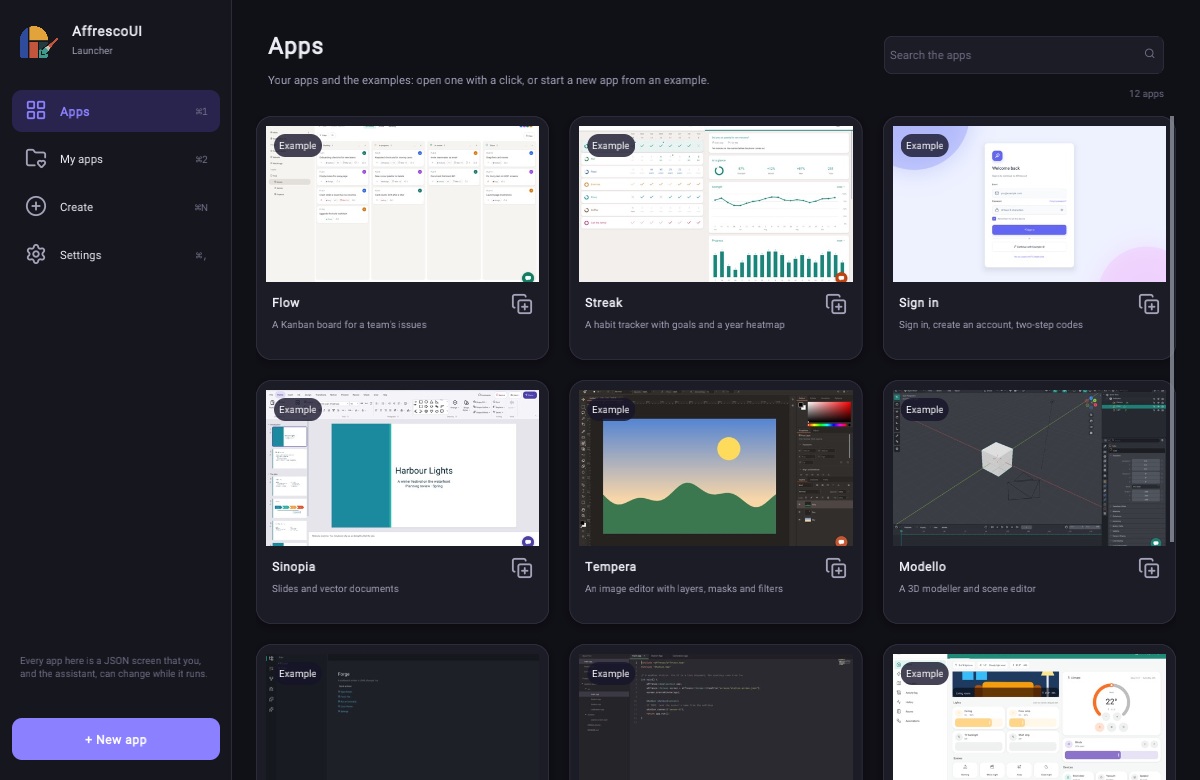
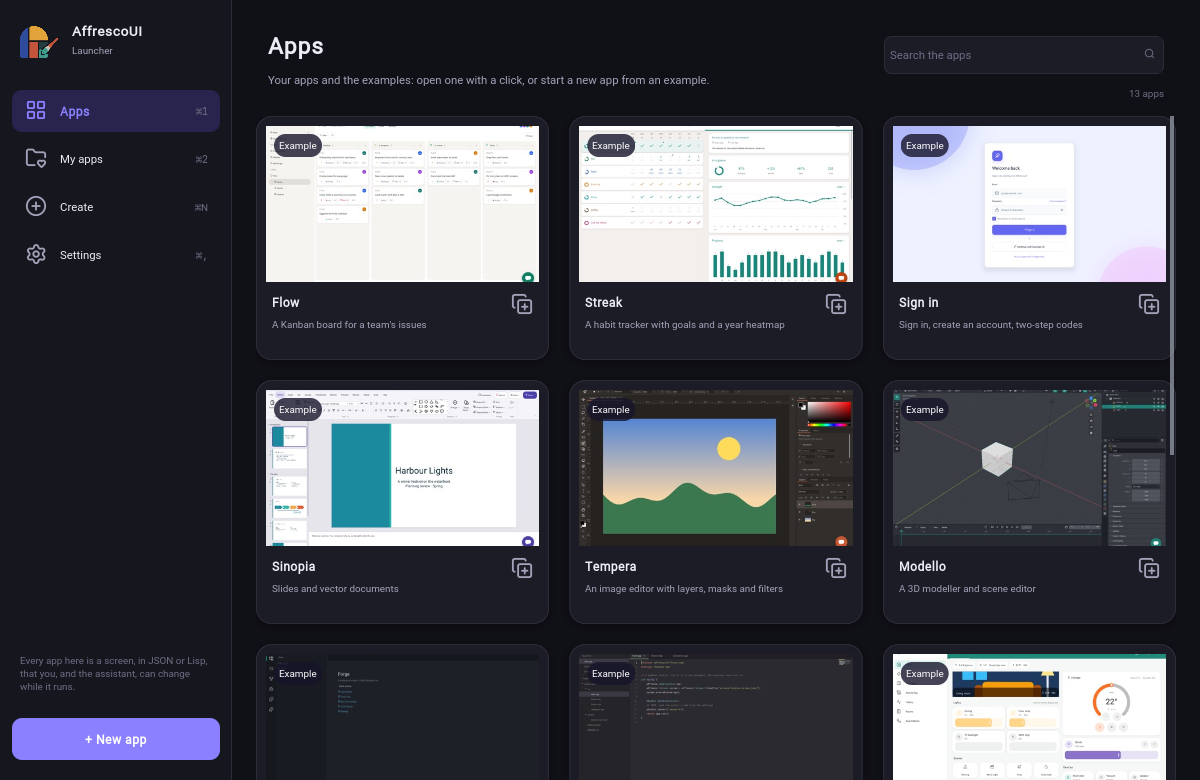
The README describes the library as it is after plans 01 to 09
The front page still described the project before the Clojure dialect, point and ask, the editors' live
connection, commands as tools, undo that keeps later changes, sharing and installing, dependency tracking and
sharp text. Each now has a short place where a reader looks for it, linking to the docs that hold the details.

Out-of-date statements corrected: thirteen applications, not twelve; Flow is no longer the host's default (the
Launcher is); the token numbers are the current record; CI tests on macOS too; files are joined with ns and
:require, not include; the module list gains data and audio, and the tree gains catalogue/ and editors/; the CLI
list names the commands it has now.

The thirteen pictures the README shows are drawn again with tools/media/capture.py: every app's text is sharper
since light hinting, and the Launcher counts 13 apps.

diff --git a/README.md b/README.md
@@ -38,12 +38,12 @@ app made from a name and a description, a small change to a home app, and the La
 > cmake -S . -B build && cmake --build build && ./build/affrescoui_launcher
 > ```
 
-AffrescoUI is a native UI engine whose applications are **defined in Lisp**. [AffrescoUI Lisp](LISP.md) is the
-standard: an application's window, views, state, behaviour, commands, keys, settings and text are all named Lisp
-definitions, which the engine builds into one document, draws in C++ and OpenGL, and keeps running. **JSON is supported
-too:** the same document can be written directly in JSON, and every example ships both. People and AI agents change an
-application while it runs: each change is checked against the app's permissions, previewed if it needs approval, and
-applied in place in milliseconds, with no rebuild, no restart and nothing lost.
+AffrescoUI is a native UI engine whose applications are **defined in Lisp**. [AffrescoUI Lisp](LISP.md), a sandboxed
+dialect of Clojure, is the standard: an application's window, views, state, behaviour, commands, keys, settings and text
+are all named Lisp definitions, which the engine builds into one document, draws in C++ and OpenGL, and keeps running.
+**JSON is supported too:** the same document can be written directly in JSON, and every example ships both. People and
+AI agents change an application while it runs: each change is checked against the app's permissions, previewed if it
+needs approval, and applied in place in milliseconds, with no rebuild, no restart and nothing lost.
 
 ## The vision
 
@@ -55,8 +55,8 @@ AffrescoUI applications keep evolving while they are used, shaped by the people 
 - **Complex applications, built by anyone.** No programming needed: describe what you want, and an AI agent builds it
   with you, step by step, from a simple board to a full workbench.
 - **The people who use an app can change it.** Ask the app itself, in plain words: *"add a Blocked column"*, *"dim
-  the lights at sunset"*, *"warn me when a streak breaks"*. You see the change live, then keep it or undo it. Nothing
-  changes without your approval.
+  the lights at sunset"*, *"warn me when a streak breaks"*, or point at the part to change and ask. You see the change
+  live, then keep it or undo it, even after later changes. Nothing changes without your approval.
 - **Prototyping without stopping.** Every idea is tried in the running application: no rebuilding, no restarting, no
   reloading, and your work stays where it was. When the prototype is right, it is already the app.
 
@@ -65,7 +65,8 @@ AffrescoUI applications keep evolving while they are used, shaped by the people 
 An application starts from a document, then **grows by being talked to**: *"add a filter to this list"*, *"make the
 sidebar collapsible"*, *"show the total in red when it's negative"*. Each request becomes a reviewed revision. A run
 of revisions becomes a **change set**, a portable file that works like a **plugin**, and whole features move between
-applications: the planetarium below reuses the presentation editor's slide sorter.
+applications: the planetarium below reuses the presentation editor's slide sorter. A person's own version of an app
+is shared as one file too, and every install is a proposal they review before it lands.
 
 ```mermaid
 flowchart LR
@@ -89,19 +90,21 @@ natively, and shaped by the people who use them while they run.
 
 ## Applications
 
-Twelve applications, from everyday apps to professional tools, all in the same format. They are examples
+Thirteen applications, from everyday apps to professional tools, all in the same format. They are examples
 ([`examples/`](examples/README.md)), not part of the library, and each carries the AI **assistant** in its bottom right
-corner: ask for a change in plain words, then review the proposal it becomes. Each is a Lisp program
-(`examples/<app>/lisp/`), small named views and functions with their text in English, Spanish and French, and keeps
-the same app as a JSON document beside it (`examples/<app>/json/`): choose which opens in the Launcher's Settings.
-Calamaio is Lisp only.
+corner: ask for a change in plain words, or **Point** at the part to change first, then review the proposal it
+becomes. Each is a Lisp program (`examples/<app>/lisp/`) in the dialect's idiomatic style, small named views and
+functions with their text in English, Spanish and French, and keeps the same app as a JSON document beside it
+(`examples/<app>/json/`): choose which opens in the Launcher's Settings. Calamaio, the text editor reprogrammed
+[from inside](#changed-from-inside-while-it-runs), is Lisp only.
 
 <div align="center">
 
 <img src=".github/media/launcher.png" width="860" alt="The AffrescoUI Launcher: a sidebar with Apps, My apps, Create and Settings, and a grid of application cards with their pictures, rendered natively by AffrescoUI from one live document">
 
 <sub>The AffrescoUI Launcher, itself one live document: every application one click away, your own apps, a new app
-made blank, from an example or from a description, and the AI provider every app's assistant uses.</sub>
+made blank, from an example or from a description, a catalogue of apps and features to install after review, and the
+AI provider every app's assistant uses.</sub>
 
 </div>
 
@@ -134,7 +137,7 @@ made blank, from an example or from a description, and the AI provider every app
 <td valign="top"><img src=".github/media/arcadia.png" alt="Arcadia, a game launcher with a library, a store and game pages"><br/><b>Arcadia</b> · a game launcher<br/><sub>A library and a store with carousels, game pages, downloads, a wishlist and a cart. Built by an outsider from the public docs. <code>examples/arcadia/lisp/index.screen.lisp</code></sub></td>
 </tr>
 <tr>
-<td valign="top"><img src=".github/media/kanban.png" alt="Flow, a Kanban board with a sidebar and four columns of issues"><br/><b>Flow</b> · a Kanban board<br/><sub>Boards with swimlanes, a table and a timeline of every card, a card drawer, a burndown, drag and drop with a keyboard alternative, undo and a command palette. The host's default. <code>examples/flow/lisp/index.screen.lisp</code></sub></td>
+<td valign="top"><img src=".github/media/kanban.png" alt="Flow, a Kanban board with a sidebar and four columns of issues"><br/><b>Flow</b> · a Kanban board<br/><sub>Boards with swimlanes, a table and a timeline of every card, a card drawer, a burndown, drag and drop with a keyboard alternative, undo and a command palette. <code>examples/flow/lisp/index.screen.lisp</code></sub></td>
 <td valign="top"><img src=".github/media/sign-in.png" alt="Sign in, a form with validated fields and a password strength meter"><br/><b>Sign in</b> · accounts<br/><sub>Sign in and sign up, two-step codes, a password reset, a sample external provider, an account page and session expiry, all validated in the document. <code>examples/sign-in/lisp/index.screen.lisp</code></sub></td>
 </tr>
 </table>
@@ -208,13 +211,17 @@ flowchart TB
   needs code (wiring a button to a list, validating a form, filtering, drag and drop, shortcuts, navigation, calls to
   services) is declared, so an agent changes it as safely as a colour.
 - **Compact for agents.** Edits address nodes by id (`{"set": {"#title/text": "Q4"}}`, stored as JSON Patch) and
-  re-reads return only what changed: a typical edit is 24 tokens, a re-read after one commit 29
-  ([BENCHMARKS.md](BENCHMARKS.md)).
+  re-reads return only what changed: a typical edit is 28 tokens, a re-read after one commit 27
+  ([BENCHMARKS.md](BENCHMARKS.md)). When the person points at a part, the agent reads only the definition that built
+  it.
+- **Apps that agents can use.** An app's commands are tools: an agent lists them, runs one under its own name and the
+  app's `run` rules, never the person's, and can undo its runs ([VERSION_CONTROL.md](VERSION_CONTROL.md#running-commands)).
 - **Swappable layers.** Modules talk only through the interfaces in `modules/core`, and `affresco::Screen` plugs them
   together. No public header exposes OpenGL or GLFW, and each module links on its own (`affrescoui::render`,
   `affrescoui::vcs`, ...) or all together (`affrescoui::affrescoui`).
 - **Features travel.** A part declares the contribution points and contracts it needs, so one application installs
-  another's feature, checked before it lands.
+  another's feature, checked before it lands. A feature can hold Lisp code, which runs with its author's authority,
+  and a person's version of an app is shared as one file ([VERSION_CONTROL.md](VERSION_CONTROL.md#sharing-a-version-packages)).
 
 ```
 modules/core/        the interfaces between modules: Executor, Channel, VersionControl, Services, Network
@@ -222,7 +229,9 @@ modules/render/      windows, panels, layout, shaped text, input, accessibility;
 modules/format/      the screen format: rules, checker, {{expressions}}, the runtime that reconciles in place
 modules/themes/      the kits' components and the themes' design tokens, as JSON built into the library
 modules/notation/    documents read and written in JSON or in the Lisp notation
-modules/lisp/        the Lisp language: reader, interpreter, programs built purely into a document
+modules/lisp/        the Lisp language, a Clojure dialect: reader, interpreter, programs built purely into a document
+modules/data/        an app's records in SQLite, kept apart from its document: models and migrations
+modules/audio/       sound: voices of files, streams and generators, mixed to the system's output
 modules/vcs/         version control: commits, proposals, permissions, history
 modules/channel/     peers and the live protocol over local sockets and processes
 modules/net/         HTTP(S), server-sent events, WebSocket, remote peers
@@ -238,6 +247,8 @@ mcp/                 the MCP server for AI agents
 apps/server/         the document server: shared, persistent documents over WebSocket
 apps/host/           the stock host, affrescoui_launcher: it opens an app's folder and asks for what the app uses
 examples/            the apps (each with a lisp/ and a json/ folder), the Launcher among them, the assistant add-on
+catalogue/           the apps' versions and features the Launcher's Catalogue lists and installs
+editors/             a VS Code extension, and a clj-kondo configuration for the Lisp programs
 web/                 the WebAssembly build
 ```
 
@@ -245,10 +256,15 @@ The layers, the path of a revision and of an event, and the security boundary: [
 
 ## Written in Lisp
 
-An AffrescoUI app is a program in **AffrescoUI Lisp**, a programming language with its own runtime, built into the
-library ([LISP.md](LISP.md) has every definition and rule in tables; [`modules/lisp`](modules/lisp/README.md),
-[RFC 0005](rfcs/0005-lisp-language.md)). The program is a folder of small, named definitions. Building it gives the
-document the engine draws, and its functions run whenever a button is pressed, a key is typed or a bound value changes.
+An AffrescoUI app is a program in **AffrescoUI Lisp**, a sandboxed dialect of Clojure with its own runtime, built into
+the library ([LISP.md](LISP.md) has every definition and rule in tables; [`modules/lisp`](modules/lisp/README.md), [RFC
+0005](rfcs/0005-lisp-language.md), [RFC 0006](rfcs/0006-clojure-dialect.md)). Its forms, functions and reader forms are
+Clojure's; it is measured against Clojure's cross-dialect test suite ([CONFORMANCE.md](modules/lisp/CONFORMANCE.md)),
+and every difference is written down with what to write instead
+([differences.md](modules/lisp/reference/differences.md)). Every example is written in its idiomatic style
+([style.md](modules/lisp/reference/style.md)). The program is a folder of small, named definitions. Building it gives
+the document the engine draws, and its functions run whenever a button is pressed, a key is typed or a bound value
+changes.
 
 | You define | In AffrescoUI Lisp |
 |---|---|
@@ -260,7 +276,7 @@ document the engine draws, and its functions run whenever a button is pressed, a
 | Shortcuts and settings | `defkey`, `defcustom` |
 | Extension points | `defhook`, `add-hook`, `advice` |
 | Its text, in every language | `(t "key")` and `locales/<language>.lisp` |
-| Its files | `(include "toolbar.lisp" ...)` |
+| Its files | `(ns board.index (:require "toolbar.lisp" ...))` |
 
 ### Lisp or JSON: the same app
 
@@ -308,6 +324,16 @@ buffer (`C-x b *scratch* RET`), type a new definition of a command and evaluate 
 The next `C-k` runs the new definition, and `C-x C-z` takes it back. `describe-key`, `apropos` and the `describe-*`
 functions inspect the running program.
 
+Your own editor can do the same in any Lisp app: start it with `--nrepl` and connect any nREPL client. The window asks
+once whether to let that editor evaluate as you; then every definition you evaluate lands as your own revision, in the
+file your buffer is ([LISP.md](LISP.md#connecting-an-editor)).
+
+```sh
+./build/affrescoui_launcher examples/flow/lisp/index.screen.lisp --nrepl
+```
+
+Only the definition that changed is rebuilt, and the running app is updated where that definition is read.
+
 ### Free, and still under version control
 
 - **Every change is a revision.** Each evaluation revises one definition: it is kept in history, shown in diffs and
@@ -327,7 +353,8 @@ functions inspect the running program.
 
 ### 🎨 Truly native
 A from-scratch **C++23** engine on **OpenGL 4.1 core or ES 3.0** (WebGL2 in the browser). No browser engine, no web
-view. Frames are batched, only what changed is redrawn, and an idle window sleeps.
+view. A change updates only what reads it, only what changed is redrawn, text is sharp at every display scale, and an
+idle window sleeps.
 
 </td>
 <td width="33%" valign="top">
@@ -340,8 +367,9 @@ A whole app in one readable document: layout, components, state, `{{expressions}
 <td width="33%" valign="top">
 
 ### 🛡 Version control built in
-Content-addressed commits, proposals as branches with **live preview**, revert and diff; `allow` / `ask` / `deny`
-rules and change budgets. An AI can change your app but **can never approve its own changes**.
+Content-addressed commits, proposals as branches with **live preview**, diff, and an **undo of any earlier change that
+keeps the later ones**; `allow` / `ask` / `deny` rules and change budgets. An AI can change your app but **can never
+approve its own changes**.
 
 </td>
 </tr>
@@ -349,8 +377,9 @@ rules and change budgets. An AI can change your app but **can never approve its 
 <td valign="top">
 
 ### 🤖 Agent-ready
-A **two-way MCP server**: requests from the app reach the agent, and its revisions and replies come
-back. Works with Claude Code out of the box.
+A **two-way MCP server**: requests from the app reach the agent, with what you pointed at, and its revisions and
+replies come back. Agents also run the app's commands as tools, under rules of their own. Works with Claude Code out of
+the box.
 
 </td>
 <td valign="top">
@@ -364,7 +393,7 @@ comes from the connection, never from what a peer claims.
 
 ### 🧩 Changes become plugins
 Any run of revisions exports as a **change set**, a small portable file that anyone with the same application can
-review and install.
+review and install. A whole version of an app shares as one file, installed only after review.
 
 </td>
 </tr>
@@ -429,8 +458,9 @@ flowchart LR
 ```
 
 1. **Anyone can propose a change.** The host (`affrescoui_launcher`) renders a screen and listens for peers on local
-   sockets. You ask through the app's assistant; the AI answers through the provider chosen in the
-   Launcher, or an agent connects through the MCP server, which works both ways; any script can connect too. Every change is a **revision** of compact edits.
+   sockets. You ask through the app's assistant, pointing at what to change if you like; the AI answers through the
+   provider chosen in the Launcher, or an agent connects through the MCP server, which works both ways; any script can
+   connect too. Every change is a **revision** of compact edits.
 2. **The permission rules decide:** `deny` refuses, `ask` sends the change to review, `allow` applies it. Rules judge
    what a change *does*, not how it is written. Flow's rules, for example, let the person's own client change anything, ask before
    an agent changes behaviour, and protect the status bar from everyone.
@@ -438,8 +468,8 @@ flowchart LR
    live. Then **Accept**, **Always allow** (don't ask again for that part of the screen) or **Reject** with a reason.
    The modes *accept edits* and *plan* change how much is asked.
 4. **Accepted changes become commits on `main`**, with SHA-256 ids, the author and the approver. The runtime updates
-   the running app in place, keeping focus and typing, and any commit can be reverted or restored
-   ([VERSION_CONTROL.md](VERSION_CONTROL.md)).
+   the running app in place, keeping focus and typing. Any commit can be undone, keeping the changes made after it
+   (where one was built on it, you choose), or restored ([VERSION_CONTROL.md](VERSION_CONTROL.md)).
 
 
 ## Quick start
@@ -470,8 +500,8 @@ changes the running board and the change comes back as a proposal: **Accept** it
 ```
 
 Requires CMake 3.25 or later and a C++23 compiler; CMake fetches the pinned dependencies
-([cmake/dependencies.json](cmake/dependencies.json)). CI builds and tests it on Linux and Windows and builds it on
-macOS, where it is developed; [web/](web/README.md) builds it for the browser. `ctest --test-dir build` runs the unit
+([cmake/dependencies.json](cmake/dependencies.json)). CI builds and tests it on Linux, Windows and macOS, where it is
+developed; [web/](web/README.md) builds it for the browser. `ctest --test-dir build` runs the unit
 tests, every application's scenarios and the rendering check, which compares each frame with a golden image, pixel
 for pixel ([tests/render/README.md](tests/render/README.md)).
 
@@ -513,18 +543,24 @@ wraps it.
   desktop and chat components.
 - **Live documents:** in-place reconciliation; revisions as compact edits or JSON Patch, atomic, by `#id`; any number
   of peers over local sockets, processes or the network; request and reply relaying; asking the agents from inside
-  the app.
+  the app, pointing at what to change; updates that run only what read the change (dependency tracking).
 - **Version control:** SHA-256 commits, an append-only `main`, proposals as branches with merge commits, log, diff,
-  blame, revert, restore, `HEAD~1` names; `allow` / `ask` / `deny` rules judged by effect, modes, grants, budgets,
-  reviewers, protected controls, approvals pinned to the version reviewed; change sets; history on disk.
+  blame, revert, restore, an undo that keeps later changes, three-way merges, `HEAD~1` names; `allow` / `ask` / `deny`
+  rules judged by effect, modes, grants, budgets, reviewers, protected controls, approvals pinned to the version
+  reviewed; change sets, packages of a whole app and a catalogue, each installed after review; history on disk.
 - **Services and network:** language servers and local programs the host allows, folders it grants, HTTP(S),
   server-sent events, WebSocket, sign-in, and a document server that shares documents live.
 - **Agents:** a two-way MCP server with minified reads, outlines, single-node reads and changes-only re-reads,
-  pictures of the screen, scenarios, leases on parts, and authors set by the connection, never self-declared.
-- **Engine:** HarfBuzz shaping and FreeType glyphs with fallbacks, right-to-left text, colour emoji, HiDPI, damage
-  redraws, the platform's accessibility API (VoiceOver, Narrator, Orca), headless windows for tests, vector PDF export.
-- **Tooling:** the `affrescoui` CLI (run, check, test, render, fmt, migrate, import from A2UI and Adaptive Cards,
-  export), scenarios with golden images, a VS Code extension, a C API with a Python binding, a WebAssembly build.
+  the source of what the person pointed at, pictures of the screen, scenarios, leases on parts, an app's commands as
+  tools with run rules and undo, and authors set by the connection, never self-declared.
+- **Lisp:** a sandboxed Clojure dialect, measured against Clojure's test suite; definitions versioned one by one, a
+  changed one rebuilt alone; an nREPL server for editors, paired by the person.
+- **Engine:** HarfBuzz shaping and FreeType glyphs with fallbacks, right-to-left text, colour emoji, display scales
+  from 100% to 400% with text hinted sharp below 2×, damage redraws, the platform's accessibility API (VoiceOver,
+  Narrator, Orca), headless windows for tests, vector PDF export.
+- **Tooling:** the `affrescoui` CLI (run, check, test, render, fmt, convert between JSON and Lisp, migrate, import from
+  A2UI and Adaptive Cards, export, pack and install, a REPL), scenarios with golden images, a VS Code extension, a
+  clj-kondo configuration, a C API with a Python binding, a WebAssembly build.
 
 </details>
 
